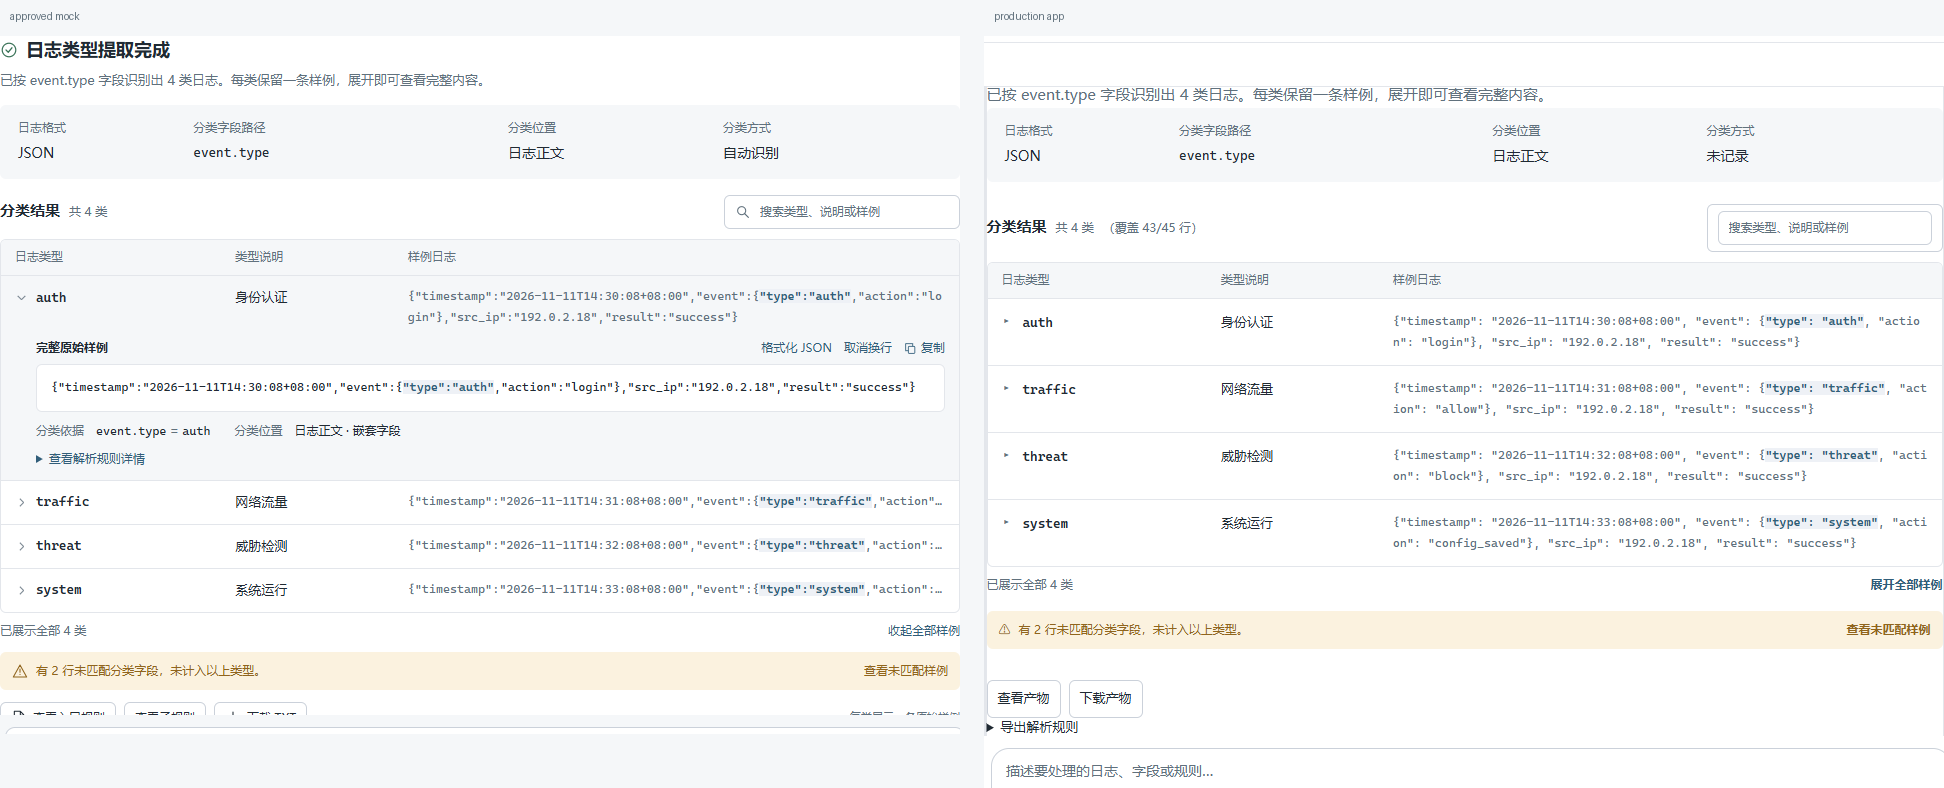
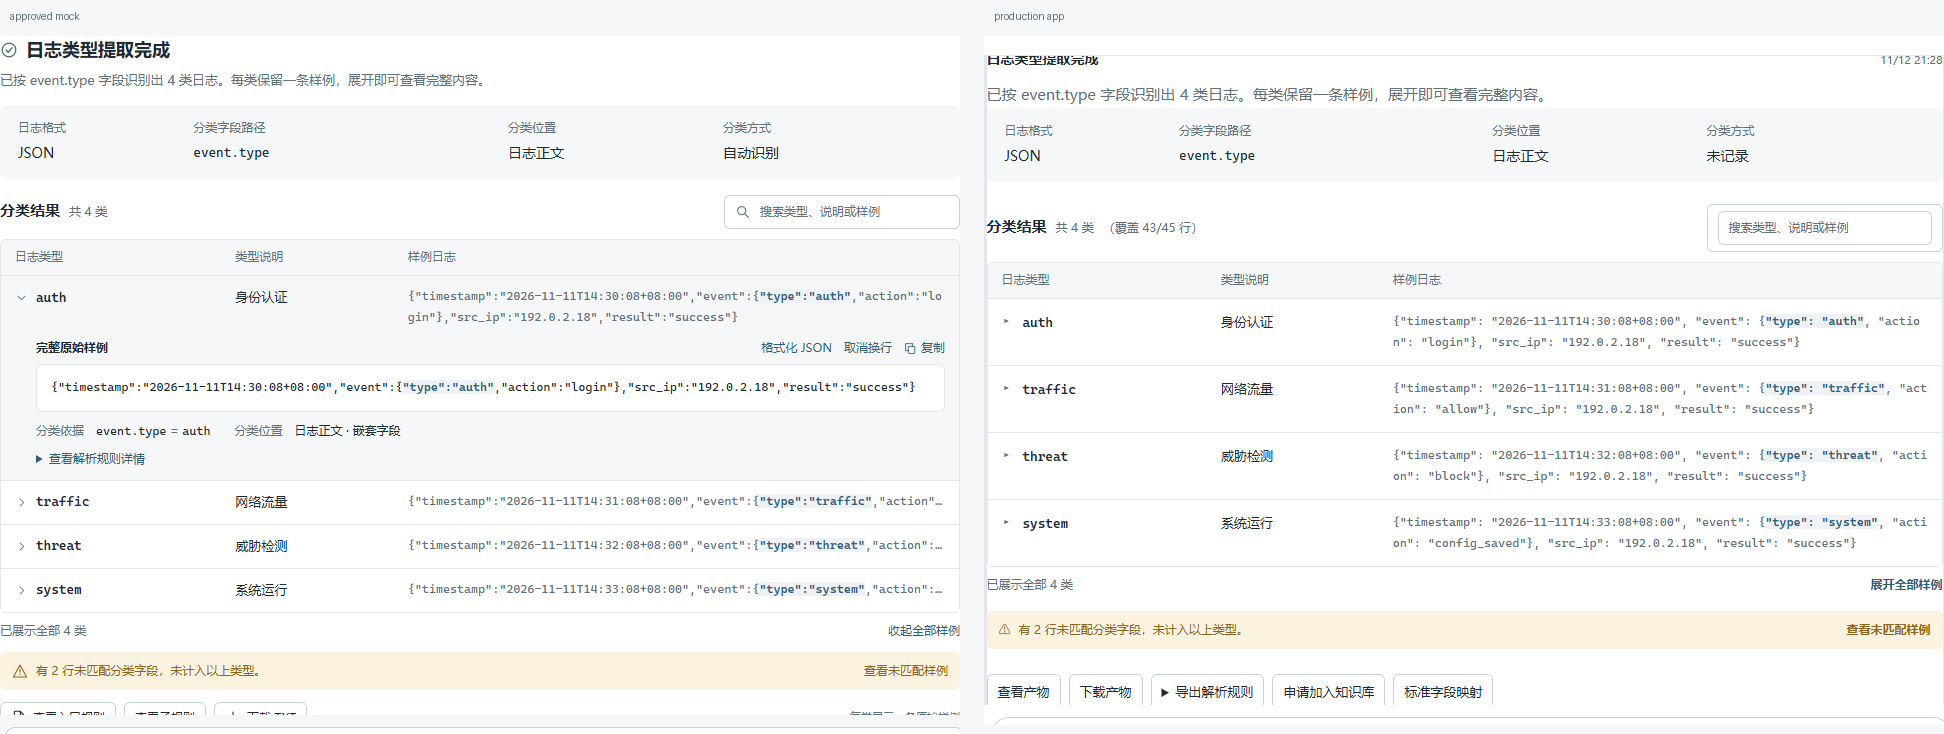
fix(v2): 结果卡操作按钮对齐批准图稿改单行排布——导出规则展开表单换行到行下方

diff --git a/v2/frontend/src/App.tsx b/v2/frontend/src/App.tsx
@@ -612,12 +612,16 @@ export function App() {
   const classificationCard = (artifact: ClassificationArtifact) => {
     const identityKey = identity?.id + ':' + activeId + ':' + artifact.id
     return <LogClassificationCard key={identityKey} artifact={artifact} identityKey={identityKey} actions={<>
-      <div className="mapping-actions"><button className="button-secondary" onClick={() => void openArtifact(artifact)}>查看产物</button><button className="button-secondary" onClick={() => void downloadMapping(artifact.id)} disabled={!!downloadId}>下载产物</button></div>
+      <div className="lcr-actions-row">
+        <button className="button-secondary" onClick={() => void openArtifact(artifact)}>查看产物</button>
+        <button className="button-secondary" onClick={() => void downloadMapping(artifact.id)} disabled={!!downloadId}>下载产物</button>
+        {identity?.role === 'user' && artifact.mapping_eligible && <details><summary className="button-secondary">导出解析规则</summary><BusinessOperations key={identityKey + ':ops'} conversation={conversation!} source={artifact} onDone={() => refreshActive(conversation!.id)} /></details>}
+        {identity?.role === 'user' && artifact.submission_eligible && (!artifact.submission_status || artifact.submission_status === 'error') && <button className="button-secondary" onClick={() => void submitKnowledge(artifact)} disabled={!!actionBusy}>{actionBusy === artifact.id ? '提交中…' : '申请加入知识库'}</button>}
+        {identity?.role === 'user' && artifact.mapping_eligible && <button className="button-secondary" onClick={() => setMappingSource({ id: artifact.id, kind: 'classification', label: '日志分类结果' })} disabled={!!actionBusy}>标准字段映射</button>}
+      </div>
       {downloadError?.id === artifact.id && <p className="mapping-error" role="alert">{downloadError.message}</p>}
-      {identity?.role === 'user' && artifact.mapping_eligible && <details><summary>导出解析规则</summary><BusinessOperations key={identityKey + ':ops'} conversation={conversation!} source={artifact} onDone={() => refreshActive(conversation!.id)} /></details>}
       {artifact.submission_status && <p role="status">申请状态：{{ created: '待审核', pending_duplicate: '已有待审核申请', already_approved: '已批准', stale: '结果已过期', error: '提交失败' }[artifact.submission_status] || statusName[artifact.submission_status] || artifact.submission_status}{artifact.application_id ? '（申请编号 ' + artifact.application_id + '）' : ''}</p>}
-      {identity?.role === 'user' && artifact.submission_eligible && (!artifact.submission_status || artifact.submission_status === 'error') && <button className="button-secondary" onClick={() => void submitKnowledge(artifact)} disabled={!!actionBusy}>{actionBusy === artifact.id ? '提交中…' : '申请加入知识库'}</button>}
-      {identity?.role === 'user' && artifact.mapping_eligible && <><button className="button-secondary" onClick={() => setMappingSource({ id: artifact.id, kind: 'classification', label: '日志分类结果' })} disabled={!!actionBusy}>标准字段映射</button>{mappingForm({ id: artifact.id, kind: 'classification', label: '日志分类结果' })}</>}
+      {identity?.role === 'user' && artifact.mapping_eligible && mappingForm({ id: artifact.id, kind: 'classification', label: '日志分类结果' })}
     </>} />
   }
   const timelineActions: TimelineActions = {

diff --git a/v2/frontend/src/App.test.tsx b/v2/frontend/src/App.test.tsx
@@ -189,6 +189,12 @@ describe('V2 workbench', () => {
     expect(screen.getByText('日志类型提取完成').closest('article')).toHaveClass('ledger-row')
     expect(screen.getByRole('button', { name: '查看产物' })).toBeInTheDocument()
     expect(screen.getByRole('button', { name: '下载产物' })).toBeInTheDocument()
+    // 批准图稿按钮行：全部操作按钮同属单行容器，不竖排分行。
+    const actionsRow = screen.getByRole('button', { name: '查看产物' }).closest('.lcr-actions-row')
+    expect(actionsRow).not.toBeNull()
+    for (const name of ['下载产物', '导出解析规则', '申请加入知识库', '标准字段映射']) {
+      expect(screen.getByText(name).closest('.lcr-actions-row')).toBe(actionsRow)
+    }
     expect(screen.queryByText('raw secret')).not.toBeInTheDocument()
     fireEvent.click(screen.getByRole('button', { name: '申请加入知识库' }))
     await waitFor(() => expect(api.submitLogKnowledge).toHaveBeenCalledWith('a1'))

diff --git a/v2/frontend/src/log-classification.css b/v2/frontend/src/log-classification.css
@@ -60,6 +60,10 @@
 .lcr-unmatched-icon { flex: none; }
 
 .lcr-actions { margin-top: 14px; }
+/* 批准图稿底部按钮行：单行排布，窄屏自动换行；展开「导出解析规则」时表单全宽换到行下方。 */
+.lcr-actions-row { display: flex; align-items: center; flex-wrap: wrap; gap: 8px; }
+.lcr-actions-row summary.button-secondary { cursor: pointer; }
+.lcr-actions-row details[open] { flex-basis: 100%; order: 10; }
 .lcr-empty { padding: 32px !important; text-align: center; color: var(--muted-foreground); }
 
 @container (max-width: 600px) {

diff --git a/docs/design/log-type-results/implementation-evidence/README.md b/docs/design/log-type-results/implementation-evidence/README.md
@@ -33,10 +33,11 @@
 
 ## 3. 视觉验收（真实 App，SSE 长连接，CDP 精确视口）
 
-- 服务：worktree 内 `uvicorn`（127.0.0.1:8100）+ `vite`（127.0.0.1:5173），数据目录 `tmp/acceptance-data`。
+- 服务：worktree 内 `uvicorn`（127.0.0.1:8100）+ worker 进程 + `vite`（127.0.0.1:5173），数据目录 `tmp/acceptance-data`。
 - 数据：离线种子脚本 `tmp/seed_acceptance.py`（FixtureBusiness，不经 LLM），内容取自批准图稿固定样例（auth/traffic/threat/system、未匹配 2 行、JSON 变体同源）。
 - 截图浏览器：Chrome headless（CDP），`--force-device-scale-factor=1`，视口 1440×900 / 390×844。
-- 文件：`app-01…04`（全页）、`side-by-side-01…03`（批准图稿卡片 vs 生产卡片，左右合成）、`style-probe-1440.json`（计算样式探针）。
+- 文件：`app-01…04`（全页）、`app-05-export-rules-open.png`（「导出解析规则」展开态）、`side-by-side-01…03`（批准图稿卡片 vs 生产卡片，左右合成）、`style-probe-1440.json`（计算样式探针）。
+- 按钮行（用户验收反馈后修复）：底部操作按钮对齐图稿改为单行排布——`查看产物 / 下载产物 / 导出解析规则 / 申请加入知识库 / 标准字段映射` 同属 `.lcr-actions-row`（flex-wrap，窄屏自动换行）；展开「导出解析规则」时表单经 `flex-basis:100%` 换行到按钮行下方全宽显示（app-05 与程序化布局检查：同行按钮 top 一致、表单区独立于按钮行）。App 测试含五按钮同容器的防回归断言。
 
 ### 计算样式探针（1440×900，JSON 变体会话）
 
